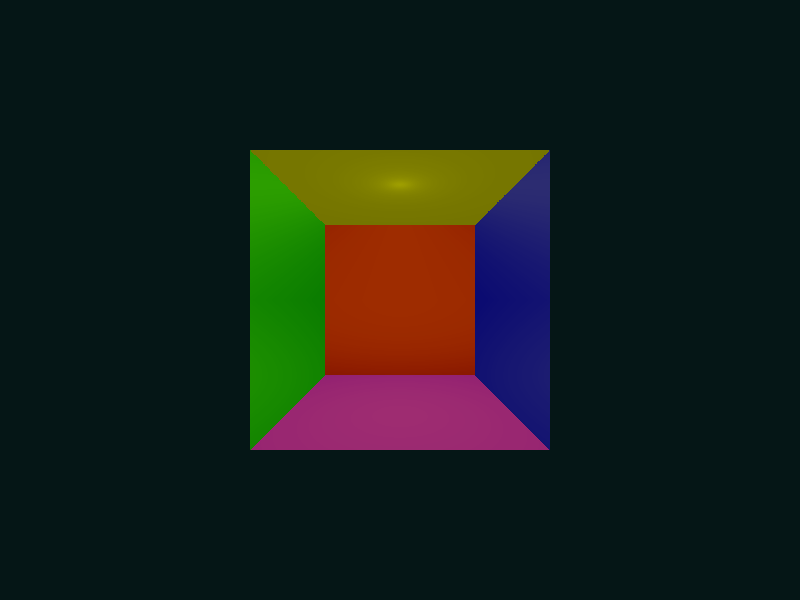
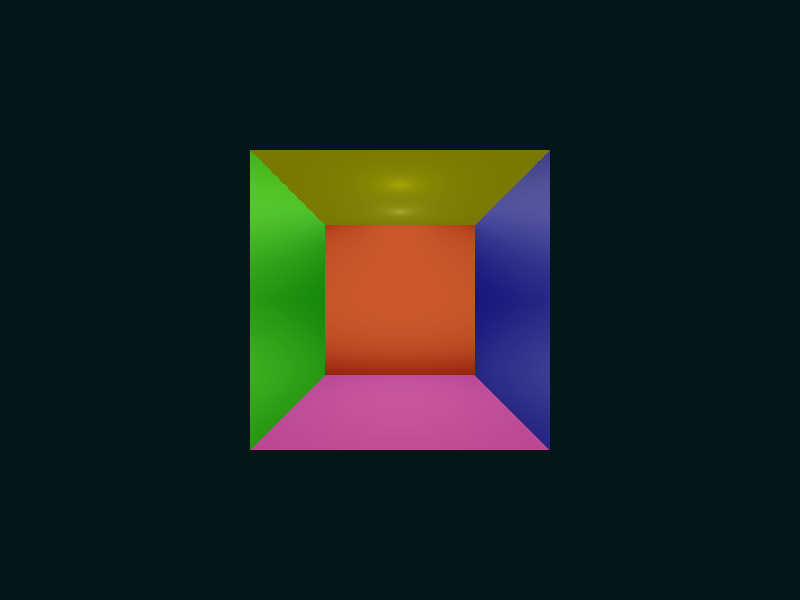
Se arregla el calculo de la suma de los colores difusos de cada luz (Ahora se ven las 2 luces)

Changed region(s): [[0.3125, 0.24, 0.6875, 0.75]]

diff --git a/headers/escena.h b/headers/escena.h
@@ -173,7 +173,7 @@ void Escena_RR::calcularColorIluminacion(ObjetoPtr objeto, Rayo_RR rayo, Vector 
         float dotProduct = normal.dot(direccionLuz);
         if (dotProduct > 0)
         {
-            colorDifuso = colorLuz * intensidad * dotProduct;
+            colorDifuso = colorDifuso + colorLuz * intensidad * dotProduct;
         }
     }
     color.setComponenteDifusa(colorDifuso / 2 + objeto->getColorReflexionDifusa() / 2, objeto->getCoeficienteReflexionDifusa());
